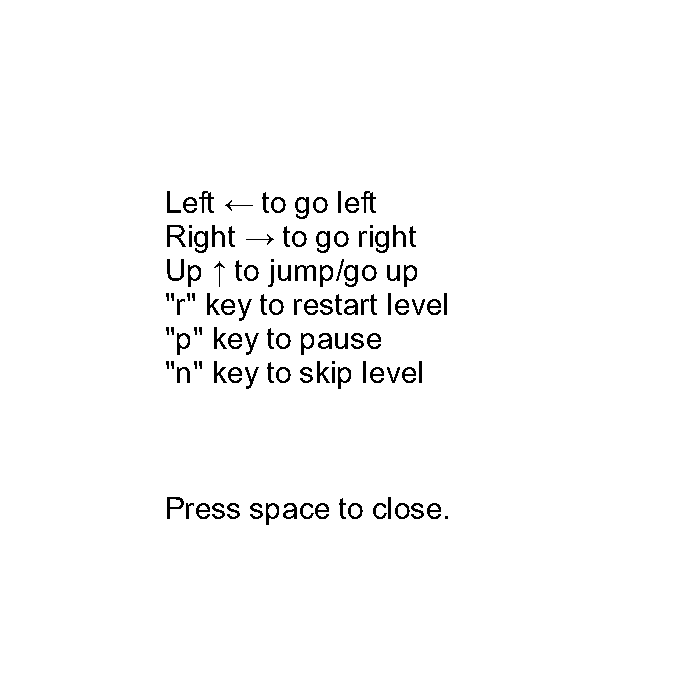
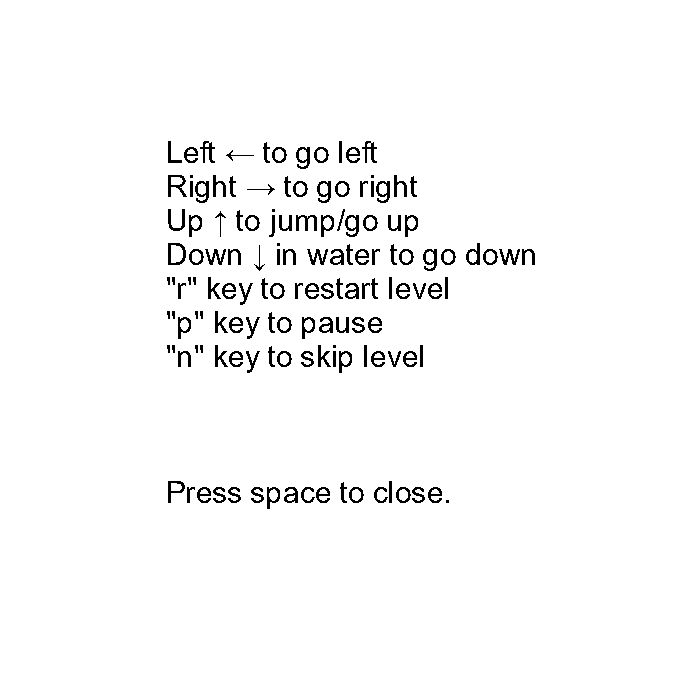
made level 9 more intuitive and made down in water better

Changed region(s): [[0.24, 0.21, 0.75, 0.57], [0.24, 0.69, 0.63, 0.75]]

diff --git a/the code is here.py b/the code is here.py
@@ -343,9 +343,9 @@ while True: #level loop
     keys=pygame.key.get_pressed() #the pressed keys
     if keys[pygame.K_UP] and ((tbottom and gravity==1) or (ttop and gravity==-1)) and not water and not ((tbottom and gravity==-1) or (ttop and gravity==1)): #if pressing up and touching bottom and not touching top and not in water
       vely+=30*gravity #jump
-    if keys[pygame.K_UP] and water: #if going up in water
+    if keys[pygame.K_UP] and water and not ((tbottom and gravity==-1) or (ttop and gravity==1)): #if going up in water
       vely=4*gravity
-    if keys[pygame.K_DOWN] and water: #if going down in water
+    if keys[pygame.K_DOWN] and water and not ((tbottom and gravity==1) or (ttop and gravity==-1)): #if going down in water
       vely=-4*gravity
     if keys[pygame.K_LEFT]: #if going left
       velx-=3 #go left
